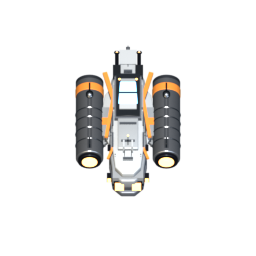
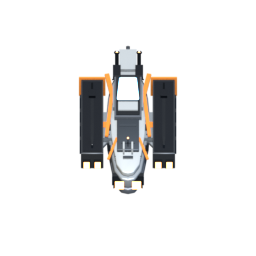
feat: upgrade to 32-direction sprite system (11.25 deg per sector)

Changed region(s): [[0.2812, 0.25, 0.7188, 0.7812]]

diff --git a/frontend/src/game/pixi-renderer-v2-integrated.ts b/frontend/src/game/pixi-renderer-v2-integrated.ts
@@ -101,18 +101,22 @@ const shipSpriteLoading = new Set<string>();
 // Pre-rendered rotation frames. sprite.rotation = 0 always; only texture swaps.
 // Hysteresis prevents flicker at direction boundaries.
 const ROTATION_SPRITES: Partial<Record<string, { frames: number; path: string; files: string[] }>> = {
-  skimmer: { frames: 16, path: "/ships/skimmer/", files: [
-    "ship_00_N.png","ship_01_NNE.png","ship_02_NE.png","ship_03_ENE.png",
-    "ship_04_E.png","ship_05_ESE.png","ship_06_SE.png","ship_07_SSE.png",
-    "ship_08_S.png","ship_09_SSW.png","ship_10_SW.png","ship_11_WSW.png",
-    "ship_12_W.png","ship_13_WNW.png","ship_14_NW.png","ship_15_NNW.png"
+  skimmer: { frames: 32, path: "/ships/skimmer/", files: [
+    "ship_00_N.png","ship_01_NbE.png","ship_02_NNE.png","ship_03_NEbN.png",
+    "ship_04_NE.png","ship_05_NEbE.png","ship_06_ENE.png","ship_07_EbN.png",
+    "ship_08_E.png","ship_09_EbS.png","ship_10_ESE.png","ship_11_SEbE.png",
+    "ship_12_SE.png","ship_13_SEbS.png","ship_14_SSE.png","ship_15_SbE.png",
+    "ship_16_S.png","ship_17_SbW.png","ship_18_SSW.png","ship_19_SWbS.png",
+    "ship_20_SW.png","ship_21_SWbW.png","ship_22_WSW.png","ship_23_WbS.png",
+    "ship_24_W.png","ship_25_WbN.png","ship_26_WNW.png","ship_27_NWbW.png",
+    "ship_28_NW.png","ship_29_NWbN.png","ship_30_NNW.png","ship_31_NbW.png"
   ]},
 };
 const rotationFrameTextures = new Map<string, PIXI.Texture[]>();
 const rotationFrameLoading = new Set<string>();
 const directionState = new Map<string, number>();
 
-const HYSTERESIS_DEG = 5;
+const HYSTERESIS_DEG = 3;
 const HYSTERESIS_RAD = HYSTERESIS_DEG * Math.PI / 180;
 
 function preloadRotationSprites(): void {
